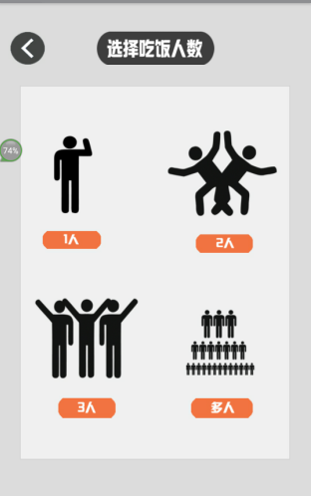
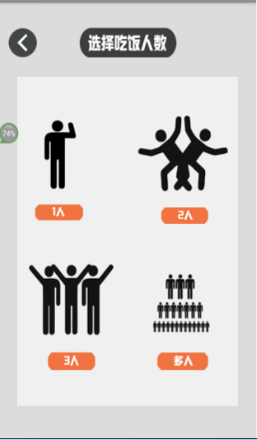
修改imgs图片大小

diff --git a/README.md b/README.md
@@ -1,15 +1,18 @@
 ## 项目简介
     
-《吃啥》：一款针对于有饮食选择困难的用户而定制的App。                      
- 主要功能：                
-       1> 在'自定义'模块： 用户可以根据自身情况特点快速生成适合自己的饮食选择；                   
-       2> 在'随机推荐'模块： 用户可以使用此模块进行快速推荐;                
-       3> 在'请客模式'模块：  用户可以在多种选择中随机快速抽取饮食选项。             
-       4> 注册登录后保存个人信息并依次进行随机推荐               
+《吃啥》：一款针对于有饮食选择困难的用户而定制的App。        
+
+ 主要功能：     
+
+       > 1 在'自定义'模块： 用户可以根据自身情况特点快速生成适合自己的饮食选择；                   
+       > 2 在'随机推荐'模块： 用户可以使用此模块进行快速推荐;                
+       > 3 在'请客模式'模块：  用户可以在多种选择中随机快速抽取饮食选项。             
+       > 4 注册登录后保存个人信息并依次进行随机推荐 
+
 app 部分截图                   
 <div>
-<img src="imgs/screenshot/主页面.jpg" style="width:180px;height:300px;"/>
 <img src="imgs/screenshot/主页面.png" style="width:180px;height:300px;"/>
+<img src="imgs/screenshot/主界面.jpg" style="width:180px;height:300px;"/>
 <img src="imgs/screenshot/个人信息.jpg" style="width:180px;height:300px;"/>
 <img src="imgs/screenshot/热度推荐.jpg" style="width:180px;height:300px;"/>
 <img src="imgs/screenshot/选择身体状态.png" style="width:180px;height:300px;"/>
@@ -29,15 +32,15 @@ app 部分截图
 
 ### master 分支
   
-  > npm install -g weex-toolkit # 应先安装 node-gyp                       
-  > npm run build # 编译`src/main.we` 到 `dist/main.js`                      
-  > npm run dev   # 将 `src/main.we`中的改变自动编译到 `dist/main.js`                    
-  > npm run serve #  启动服务器 可以在 `http://localhost:8080/`进行h5 预览             
+  > npm install -g weex-toolkit    # 应先安装 node-gyp                       
+  > npm run build                  # 编译`src/main.we` 到 `dist/main.js`                      
+  > npm run dev                    # 将 `src/main.we`中的改变自动编译到 `dist/main.js`                    
+  > npm run serve                  # 启动服务器 可以在 `http://localhost:8080/`进行h5 预览             
 
 ### dev 分支
 
-  > npm install -g weex-pack # 安装weex-pack 工具              
-  > npm run android # apk 打包
+  > npm install -g weex-pack       # 安装weex-pack 工具              
+  > npm run android                # apk 打包
  
 
 
